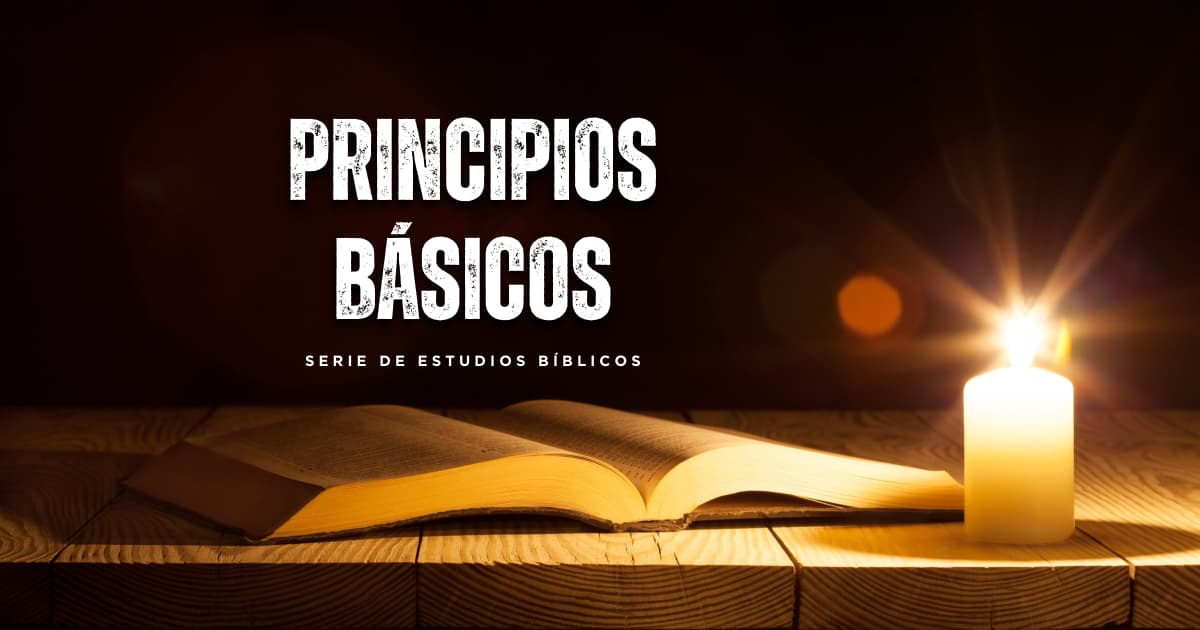
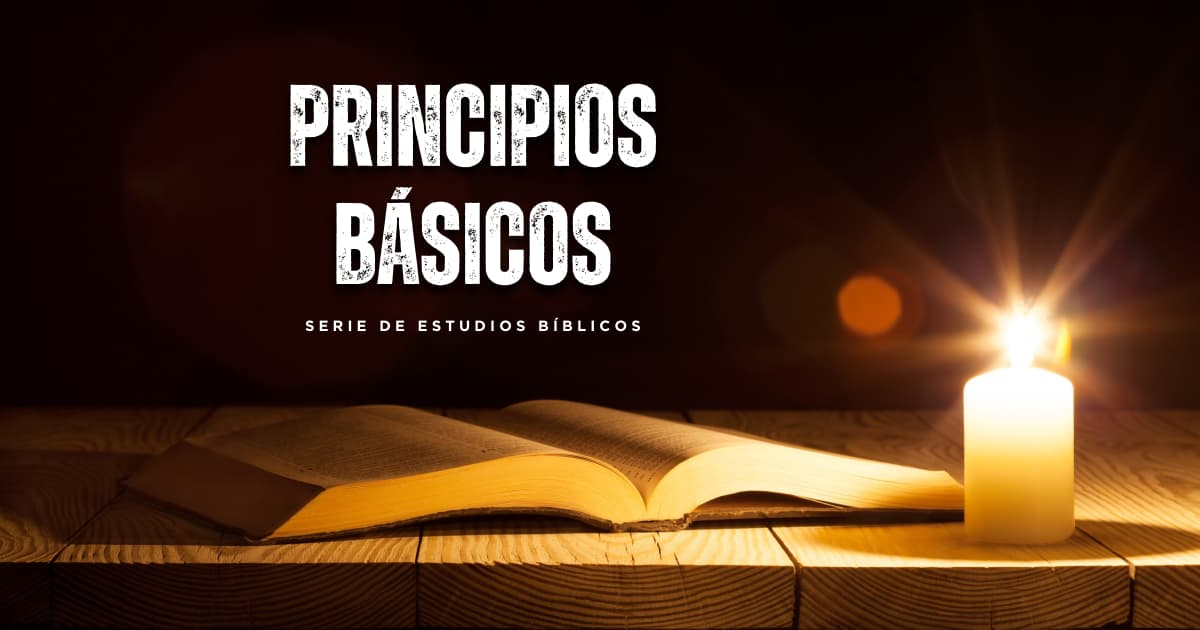
Revise open graph image

Changed region(s): [[0.2158, 0.1206, 0.555, 0.6032]]

diff --git a/fp/es/sw.js b/fp/es/sw.js
@@ -1,2 +1,2 @@
-if(!self.define){let s,e={};const i=(i,r)=>(i=new URL(i+".js",r).href,e[i]||new Promise(e=>{if("document"in self){const s=document.createElement("script");s.src=i,s.onload=e,document.head.appendChild(s)}else s=i,importScripts(i),e()}).then(()=>{let s=e[i];if(!s)throw new Error(`Module ${i} didn’t register its module`);return s}));self.define=(r,a)=>{const c=s||("document"in self?document.currentScript.src:"")||location.href;if(e[c])return;let n={};const o=s=>i(s,c),d={module:{uri:c},exports:n,require:o};e[c]=Promise.all(r.map(s=>d[s]||o(s))).then(s=>(a(...s),n))}}define(["./workbox-de7bb800"],function(s){"use strict";self.addEventListener("message",s=>{s.data&&"SKIP_WAITING"===s.data.type&&self.skipWaiting()}),s.precacheAndRoute([{url:"_assets/css/cover.css",revision:"6fa777c358d7b6ce5adc1e5236dcb4ef"},{url:"_assets/css/global.css",revision:"9f9bafbdf2757b5e051275ac0183f127"},{url:"_assets/img/cover/cover.avif",revision:"a85886271cc917772809dec3e9a3118a"},{url:"_assets/img/icons/chevron-right.svg",revision:"48cbacdcf0f776bc4706d79ea206ce8f"},{url:"_assets/img/icons/launch/logo-usd21-120.png",revision:"a1d88af61183cf3df36c18df3bd18f07"},{url:"_assets/img/icons/launch/logo-usd21-152.png",revision:"857807e589da9673db28ddc9c5e46086"},{url:"_assets/img/icons/launch/logo-usd21-167.png",revision:"617ece7bc41b78d73306582e70ef734f"},{url:"_assets/img/icons/launch/logo-usd21-180.png",revision:"2e4bc4c83044ddd3dc48dbc439f2c829"},{url:"_assets/img/icons/launch/logo-usd21-192-maskable.png",revision:"40d40ac591083bc6a416f92f9374a541"},{url:"_assets/img/icons/launch/logo-usd21-192.png",revision:"16ecc5f1d52b09ca048897ee152f5f38"},{url:"_assets/img/icons/launch/logo-usd21-512-maskable.png",revision:"a6c14e88b10910c9631c1c741d0f4e25"},{url:"_assets/img/icons/launch/logo-usd21-512.png",revision:"6225109db6e3ce7e96078459172f0f63"},{url:"_assets/img/icons/pause-circle.svg",revision:"0ffd80e727c032d8ce6b061a13cfa0b1"},{url:"_assets/img/icons/play-circle.svg",revision:"ade4d25a243d387a52c166d2f9655623"},{url:"_assets/img/icons/stop-circle.svg",revision:"5aff093e5c687e5a5356fdf9cbcdf3d0"},{url:"_assets/img/opengraph.jpg",revision:"7ac178550a483ec86c5ae4fb8bd36e98"},{url:"_assets/js/bootstrap-5.3.7-dist/css/bootstrap.min.css",revision:"d678fe326e68721e46a8ede94d868939"},{url:"_assets/js/bootstrap-5.3.7-dist/js/bootstrap.bundle.min.js",revision:"c6bf4929e79cc4a5e1f7783a9e359925"},{url:"_assets/js/global.js",revision:"f1f48e5a16d5a6298d54ce74fcc4b2ce"},{url:"_assets/js/popper.min.js",revision:"f391f7a8f97c5bca544d5e9374f4f44e"},{url:"_assets/js/pwa-install.js",revision:"f226a3159f0bc9f84bcb07d49cc842ac"},{url:"_assets/scriptures/es/1-corinthians-1-10-13.json",revision:"4c5feb2a111cc26b1993371d8347a5b4"},{url:"_assets/scriptures/es/1-corinthians-12-12-13.json",revision:"c6bb7aca246ec5fa68c5ce6beb2eacdb"},{url:"_assets/scriptures/es/1-corinthians-12-14-27.json",revision:"fd3e822c92e3b8f198d28c7cf1f31138"},{url:"_assets/scriptures/es/1-corinthians-16-1-2.json",revision:"397182b0b7861b8d73c1be7721b86413"},{url:"_assets/scriptures/es/1-corinthians-3-11.json",revision:"852bb62cc16133f1c3568ebdc161cb85"},{url:"_assets/scriptures/es/1-corinthians-4-15-17.json",revision:"a11feed980f451bc9bece97c0aab85c6"},{url:"_assets/scriptures/es/1-corinthians-6-7-10.json",revision:"b6dcb583afa5c1bc7310c57e3ba126cf"},{url:"_assets/scriptures/es/1-corinthians-7-39.json",revision:"864222161d7e1b8f9eb916070dd7eb0b"},{url:"_assets/scriptures/es/1-peter-1-19-21.json",revision:"39a365b253e1a299a7ae62d9c6c811e6"},{url:"_assets/scriptures/es/1-peter-2-21-24.json",revision:"12a9d21c3120cfed608d16c3a641aae9"},{url:"_assets/scriptures/es/1-peter-2-9-10.json",revision:"7340232616df80757878f97de219ddc0"},{url:"_assets/scriptures/es/1-peter-3-18-22.json",revision:"bd88bec2def04863e4be339670b8c9ae"},{url:"_assets/scriptures/es/1-timothy-3-15.json",revision:"8aab65662510be1cbfda3072d0c98fcd"},{url:"_assets/scriptures/es/1-timothy-3-16.json",revision:"d1464bc9419d2b7bea2000f5784a9fe5"},{url:"_assets/scriptures/es/1-timothy-4-16.json",revision:"d5b7ee90ad897f48881b8f2a80df632a"},{url:"_assets/scriptures/es/2-corinthians-5-21.json",revision:"a72afe99894cbf2a2616e01b58ac9cba"},{url:"_assets/scriptures/es/2-corinthians-6-14-18.json",revision:"358d191c0aae55379fad09d6932d45b5"},{url:"_assets/scriptures/es/2-corinthians-7-8-11.json",revision:"7fe2b0859a1d788112e790348494dfad"},{url:"_assets/scriptures/es/2-corinthians-9-6-8.json",revision:"ce8b9f1af95a5811424694358391bfec"},{url:"_assets/scriptures/es/2-timothy-3-1-5.json",revision:"d822494b67e44fe465e1f66e30963a23"},{url:"_assets/scriptures/es/2-timothy-3-14-17.json",revision:"e142cf83648072800b817cd5eaa7c07e"},{url:"_assets/scriptures/es/2-timothy-3-16-17.json",revision:"82b81499535b9bec2bd338be01924a36"},{url:"_assets/scriptures/es/2-timothy-3-16.json",revision:"9d80543f8c6d7bfc30b86e9b7cf65a0c"},{url:"_assets/scriptures/es/acts-1-1-26.json",revision:"89d8ba1582b01ed22a9ab33a6be81824"},{url:"_assets/scriptures/es/acts-11-25-26.json",revision:"9d5dc64725210eb36351ff9313c3a125"},{url:"_assets/scriptures/es/acts-13-47.json",revision:"e2d6198120c3dba898e531e1ab9f1c65"},{url:"_assets/scriptures/es/acts-17-10-11.json",revision:"dc760256b9124b1f1b0b17e7a5dfa2e7"},{url:"_assets/scriptures/es/acts-17-24-28.json",revision:"33e54c0941e0fdcd71557e9ab91aa6b6"},{url:"_assets/scriptures/es/acts-2-1-17.json",revision:"cae9c568814a443a266774e5941b8d40"},{url:"_assets/scriptures/es/acts-2-1-4.json",revision:"b71196248e0da6bc99cfbc259f6316a7"},{url:"_assets/scriptures/es/acts-2-22-24.json",revision:"e0a6365d4c61859412cb03f6133ce126"},{url:"_assets/scriptures/es/acts-2-22.json",revision:"47653971d327d5afb2559c8a5e49d640"},{url:"_assets/scriptures/es/acts-2-23.json",revision:"d61fe8005fde321550ca37e84d4db32e"},{url:"_assets/scriptures/es/acts-2-24.json",revision:"97b75bb6e6667a672f3c6305109c14cd"},{url:"_assets/scriptures/es/acts-2-36-41.json",revision:"5d7338cdd7361a757f49494be07371d6"},{url:"_assets/scriptures/es/acts-2-37.json",revision:"570bdee860f41e7633203e543b9510ce"},{url:"_assets/scriptures/es/acts-2-38-42.json",revision:"169beebfd16177d2b3fb143460587916"},{url:"_assets/scriptures/es/acts-2-38.json",revision:"2f065a4695cacd965e6ec249b31825f4"},{url:"_assets/scriptures/es/acts-2-42-47.json",revision:"cc2c7e7a10f7b50f910b40ae3d68419c"},{url:"_assets/scriptures/es/acts-26-20.json",revision:"ab03b44d2dd9bcca04cd5fd1f1f0aea6"},{url:"_assets/scriptures/es/acts-26-28.json",revision:"80f45083d140392c8e0792351be4585a"},{url:"_assets/scriptures/es/acts-8-26-39.json",revision:"aa1456c3ad9c44b7203dae9d1ce251bf"},{url:"_assets/scriptures/es/colossians-1-15-18.json",revision:"235c1b2b069cfe40414e6b5790b42669"},{url:"_assets/scriptures/es/colossians-2-11-12.json",revision:"26e7eec8255da454922ad6bbb5a6103a"},{url:"_assets/scriptures/es/colossians-3-5-10.json",revision:"a1f88f89089753634109c3021370763c"},{url:"_assets/scriptures/es/daniel-2-31-45.json",revision:"a9d407d011f72ffac83bc3a71e8746ce"},{url:"_assets/scriptures/es/ephesians-2-19-22.json",revision:"758be8d2f3e5434abd6a668ea51cfd6d"},{url:"_assets/scriptures/es/ephesians-4-4-6.json",revision:"15d93b761a7323ab0096a4024b08617e"},{url:"_assets/scriptures/es/ephesians-5-1-7.json",revision:"f2c402fdc48bff541ade24f613938e83"},{url:"_assets/scriptures/es/ezekiel-18-20.json",revision:"98c65d351629f7f50930db226ca45332"},{url:"_assets/scriptures/es/ezekiel-28-15.json",revision:"0b45b94c24612ded719295f58f4088ca"},{url:"_assets/scriptures/es/galatians-5-19-21.json",revision:"b756f612d50477270a1c8540ae60b895"},{url:"_assets/scriptures/es/genesis-2-19.json",revision:"b233b18a19f3dab9f39e786d88ab5c75"},{url:"_assets/scriptures/es/hebrews-10-23-25.json",revision:"7044d0e40511f7c313815c1dfc78219b"},{url:"_assets/scriptures/es/hebrews-4-12-13.json",revision:"7ced8b9c8497bf3192d49866cf00f1fd"},{url:"_assets/scriptures/es/isaiah-2-1-4.json",revision:"b8fb47e5a6b3001058b75243f7943062"},{url:"_assets/scriptures/es/isaiah-2-2.json",revision:"3ff02aad2f56d5f8175eead1bd2ea42b"},{url:"_assets/scriptures/es/isaiah-2-3.json",revision:"6bce373cad252974f1e3146f37625fab"},{url:"_assets/scriptures/es/isaiah-40-22.json",revision:"7a6d15e90ca3bb28bc7d808869ca0b46"},{url:"_assets/scriptures/es/isaiah-53-4-6.json",revision:"58b9e47b65bfb5922ae925c60e199fbe"},{url:"_assets/scriptures/es/isaiah-53-9.json",revision:"aa52511f129245247da3d6caca743e16"},{url:"_assets/scriptures/es/isaiah-55-10-11.json",revision:"78b34a5137c8a29b8a64bad9f6e718da"},{url:"_assets/scriptures/es/isaiah-59-1-2.json",revision:"ed223cd906ceacfc8cb659cec6aea388"},{url:"_assets/scriptures/es/james-1-22-25.json",revision:"e3171179ed37803f614aa7bf3974f359"},{url:"_assets/scriptures/es/james-4-17.json",revision:"dce1b7d9189f0c34f7ef1f212af04e47"},{url:"_assets/scriptures/es/james-5-16.json",revision:"68fda091719c95cf4640bcc352e97577"},{url:"_assets/scriptures/es/jeremiah-29-11-13.json",revision:"ce3189306446b7e9a038fb667c55e985"},{url:"_assets/scriptures/es/job-26-7.json",revision:"d485b66cc6ce175c03b91d11d40007ce"},{url:"_assets/scriptures/es/john-12-48.json",revision:"3f050f79d30c5d3a5170e0f31d877e8c"},{url:"_assets/scriptures/es/john-13-34-35.json",revision:"d115537b183d1b3490b800a4f82cc6f6"},{url:"_assets/scriptures/es/john-2-18-21.json",revision:"9fa795d8a1d5b895862228b77a93a99b"},{url:"_assets/scriptures/es/john-3-1-7.json",revision:"8a63ca3ff107bb371f8097bc240d50b7"},{url:"_assets/scriptures/es/john-3-5.json",revision:"a74960abf70705f225e546246f9a4b72"},{url:"_assets/scriptures/es/john-4-23-24.json",revision:"4b66cd7933eaaadd7a39492159c3521e"},{url:"_assets/scriptures/es/john-8-31-32.json",revision:"c6667be33edee37f890b6560d19d863e"},{url:"_assets/scriptures/es/luke-11-1-4.json",revision:"e257d8675a6f3f849769b29571f0a59c"},{url:"_assets/scriptures/es/luke-13-1-5.json",revision:"6f9eaeb684cccd6a81a57a7898060195"},{url:"_assets/scriptures/es/luke-14-25-33.json",revision:"40b0884ea4d92c2210a05a259447602c"},{url:"_assets/scriptures/es/luke-14-28-30.json",revision:"b65cf76b28cca38e32b0e230585bfd6b"},{url:"_assets/scriptures/es/luke-14-31-33.json",revision:"fed9884ac00b9dbe0b0bd2a8eba909ec"},{url:"_assets/scriptures/es/luke-23-50-51.json",revision:"3c3c5d3cd3eb364ca1f59338bff92712"},{url:"_assets/scriptures/es/luke-24-44-49.json",revision:"07af1aa9e3d1571a4fa8fee5686cb7c5"},{url:"_assets/scriptures/es/luke-9-23-26.json",revision:"9737c991c117d5726bcf4e7a2b792fb5"},{url:"_assets/scriptures/es/mark-1-14-18.json",revision:"530f5d0225633d02576a93f5151fc7f1"},{url:"_assets/scriptures/es/mark-15-25.json",revision:"8dc49fa4b67acd94abc6d12c1bf23dec"},{url:"_assets/scriptures/es/mark-7-1-13.json",revision:"ecf3b94102b17654ed9abfb301c67c49"},{url:"_assets/scriptures/es/mark-7-20-22.json",revision:"74a395b6afa626895d0175b4304c3ae6"},{url:"_assets/scriptures/es/mark-9-1.json",revision:"400b8142668f3f6d8d02805fecb53fb1"},{url:"_assets/scriptures/es/matthew-15-6-9.json",revision:"67eff5d65f4bbbfbda1fb6da34b42164"},{url:"_assets/scriptures/es/matthew-16-13-19.json",revision:"b774a6fb84ba704a9231df31cacc1940"},{url:"_assets/scriptures/es/matthew-16-18-19.json",revision:"77f118102fdd75c677465374feebd98d"},{url:"_assets/scriptures/es/matthew-22-34-40.json",revision:"a46d88fa7a24c5a9f29ac7524a3aba08"},{url:"_assets/scriptures/es/matthew-26-31-35.json",revision:"0483992e2c4c70c574f925cbc6a6a158"},{url:"_assets/scriptures/es/matthew-26-36-39.json",revision:"070e0ee082c0093dbe98100726fb022c"},{url:"_assets/scriptures/es/matthew-26-36-46.json",revision:"2deccf92c419361b25c37dd9fb9ab100"},{url:"_assets/scriptures/es/matthew-26-47-56.json",revision:"18622b898ffe8082a2d31a6212fee90e"},{url:"_assets/scriptures/es/matthew-26-55.json",revision:"8262cc4b25a2814933c8a47e04db5dad"},{url:"_assets/scriptures/es/matthew-26-57-68.json",revision:"aa696714b7132fcc4729307357480fac"},{url:"_assets/scriptures/es/matthew-26-69-75.json",revision:"7817504336d07e4edf0f531e12fc375a"},{url:"_assets/scriptures/es/matthew-27-1-10.json",revision:"2b7c54eb25a9f3d75186e9de38b6dd46"},{url:"_assets/scriptures/es/matthew-27-11-26.json",revision:"6f0c51f8a46719f486df56a2d0e8bebe"},{url:"_assets/scriptures/es/matthew-27-27-44.json",revision:"dba966df23c9c149becc46336f0db0dc"},{url:"_assets/scriptures/es/matthew-27-45-56.json",revision:"8c8d4965e18fa529ab7140ce7df50b0e"},{url:"_assets/scriptures/es/matthew-27-57-61.json",revision:"40a87dcb0422d9eae60e6dbd34f3fadc"},{url:"_assets/scriptures/es/matthew-27-62-66.json",revision:"b240188f9a4b191e31a3d79f2a9c9ece"},{url:"_assets/scriptures/es/matthew-28-1-10.json",revision:"65c795966a6fc04e7940f055282087ac"},{url:"_assets/scriptures/es/matthew-28-18-20.json",revision:"f0f34f45e41e26e2eedf177af5612d76"},{url:"_assets/scriptures/es/matthew-3-1-2.json",revision:"e0e3d28c83f2e44819576a134eaa55a1"},{url:"_assets/scriptures/es/matthew-4-17.json",revision:"37ac7ca1fe2f6f1f1bf05abf9c18bcc5"},{url:"_assets/scriptures/es/matthew-5-27-30.json",revision:"4b4ce61318482198b42735979c933c1c"},{url:"_assets/scriptures/es/matthew-6-25-34.json",revision:"f0ef8b3dc259c19aa62614f8ee39f747"},{url:"_assets/scriptures/es/matthew-6-33.json",revision:"2c45e29cdf058935221d95bb1e064043"},{url:"_assets/scriptures/es/matthew-7-7-8.json",revision:"8a95ee480f2a57e1cd31022331bb84f2"},{url:"_assets/scriptures/es/numbers-27-12-18.json",revision:"abff437a40efffd53ae93615690bf8aa"},{url:"_assets/scriptures/es/proverbs-13-5.json",revision:"e59b4678c779dcaa90d742de54827797"},{url:"_assets/scriptures/es/psalm-119-1-2.json",revision:"6686d61c73eff9e481970461c24d5a40"},{url:"_assets/scriptures/es/revelation-3-20.json",revision:"e2e1bb981ea17fcd30637524ad2acca3"},{url:"_assets/scriptures/es/romans-12-4-5.json",revision:"19309139555768bda7b5b5d52196666a"},{url:"_assets/scriptures/es/romans-3-23.json",revision:"ac877257071ca29a8b066e49f9acaee2"},{url:"_assets/scriptures/es/romans-3-25.json",revision:"c25e7cf1db31109e8861b0690179de93"},{url:"_assets/scriptures/es/romans-6-1-8.json",revision:"d3c1cca8eeb3d8bf47fbfacb5154423c"},{url:"_assets/scriptures/es/romans-6-23.json",revision:"0c949b4809fbd451be232d7823cb99c0"},{url:"_assets/scriptures/es/romans-6-3-4.json",revision:"5e5adba5458d888cc88ee57e2f360e06"},{url:"about-fp/i18n/es-decorations.json",revision:"8ff576242bb99a5fe8cf469b2014aacd"},{url:"about-fp/i18n/es.json",revision:"325933c8eb46c83ac004cb955c50894f"},{url:"about-fp/img/masthead-about-fp.avif",revision:"5ac49a318501d76c7cd7ab0bc2358497"},{url:"about-fp/index.html",revision:"32d17fe7b47a2c33c3dd5c1d45242c06"},{url:"about-fp/logic.js",revision:"2d821031b7e21691336e846dbffabc6d"},{url:"about-fp/style.css",revision:"61c441989568c1e7f8e983b3430a0a8f"},{url:"about-us/i18n/es-decorations.json",revision:"a24f7c1f1868a07660104dd523dd7e95"},{url:"about-us/i18n/es.json",revision:"9b07908f7c27274c33d2e595cc8e8654"},{url:"about-us/img/masthead-about-fp.avif",revision:"5ac49a318501d76c7cd7ab0bc2358497"},{url:"about-us/index.html",revision:"ed1ef76e3225fe1613fbcdd90b8be5a9"},{url:"about-us/logic.js",revision:"2d821031b7e21691336e846dbffabc6d"},{url:"about-us/style.css",revision:"61c441989568c1e7f8e983b3430a0a8f"},{url:"church/i18n/es-decorations.json",revision:"9cca6d3764829f37770262ad56c84466"},{url:"church/i18n/es.json",revision:"df41ca4efabdc5ad49cbebc9277035da"},{url:"church/img/church-history/church-history.avif",revision:"0e9fead3f8b985ebf9762beaa1911a05"},{url:"church/img/family-triangle/family-triangle.svg",revision:"2e189703767ea06efef0999f10ec1eeb"},{url:"church/img/head-body-diagram/head-body-diagram.svg",revision:"575b7a41400b6e4875f7b0566bd665bd"},{url:"church/img/masthead-church.avif",revision:"5f561b19ce41cf8edbea8e94a49cf9d1"},{url:"church/index.html",revision:"99209c5a2053966dd2cd0591c52efa1b"},{url:"church/logic.js",revision:"2d821031b7e21691336e846dbffabc6d"},{url:"church/style.css",revision:"d6ddc8ddb43f2bc47eee4f5b7f78b59c"},{url:"cross/i18n/es-decorations.json",revision:"2f71a106a44901e0e32eb3ce6a6fef43"},{url:"cross/i18n/es.json",revision:"25f2e252698a93e69c8ad2ce18109815"},{url:"cross/img/masthead-cross.avif",revision:"a7ce22ba73a14bd62f3b247de285b395"},{url:"cross/index.html",revision:"31c3d508deeefa97295bde3aac0a3003"},{url:"cross/logic.js",revision:"2d821031b7e21691336e846dbffabc6d"},{url:"cross/style.css",revision:"f99002dd71b04b99460e070ff663e808"},{url:"discipleship/i18n/es-decorations.json",revision:"0a0080dcfe323fd66c93c8f656be167f"},{url:"discipleship/i18n/es.json",revision:"f021cd9a158fa3648084add92396c5c9"},{url:"discipleship/img/masthead-discipleship.avif",revision:"00cea4cfd37c9279c7b289c5d2e72411"},{url:"discipleship/index.html",revision:"572a3872190e423d9c8f02be0e238802"},{url:"discipleship/logic.js",revision:"7e464ab307cfe2dc8dda34db198040ba"},{url:"discipleship/style.css",revision:"121700d599e606558f3543e3c2b526a9"},{url:"i18n-global/es.json",revision:"9ff42a50e3ab27d728d0cfdf0f452f3d"},{url:"index.html",revision:"c0cdb5ced2195c8981a14b7ad6251347"},{url:"kingdom/i18n/es-decorations.json",revision:"ab9ff628ede0f426c53273d1eb6f9aec"},{url:"kingdom/i18n/es.json",revision:"796b1eda3bd2c9536a3fdbf7d9777052"},{url:"kingdom/img/kingdom-church-comparison/kingdom-church-comparison.avif",revision:"63abed704227c991aaae72804bb97739"},{url:"kingdom/img/masthead-kingdom.avif",revision:"349c27764cb33a4f3abe1f57fb55ec91"},{url:"kingdom/img/mountain-bg-transparent.webp",revision:"1f0bd85ae3f72483caeb47ac190c7aa5"},{url:"kingdom/img/statue/statue.avif",revision:"e849b55b8569dd9a553e8ce707d73ae8"},{url:"kingdom/img/timeline/timeline.svg",revision:"28b7bf715713c6893d935b29fd6bb823"},{url:"kingdom/index.html",revision:"59cd307bdb6902726958a25216f4c66b"},{url:"kingdom/logic.js",revision:"652baa6f9b01711869fdc20ebaa99d46"},{url:"kingdom/style.css",revision:"266307b35d07e13c4946fdc032e0fc8a"},{url:"light-darkness/i18n/es-decorations.json",revision:"1d1966115dad552309bade2ee37550b3"},{url:"light-darkness/i18n/es.json",revision:"a2ec5a5073ec979f52a0162868a7e537"},{url:"light-darkness/img/buried-in-baptism/buried-in-baptism.avif",revision:"985c0c914c2ce6c15b0c9098e69f9569"},{url:"light-darkness/img/masthead-lightdarkness.avif",revision:"89a2a6596f542b59adf00991ec1ae9f1"},{url:"light-darkness/img/timeline-dots.svg",revision:"ffb69453df9faadeadbf785f18a23dc6"},{url:"light-darkness/index.html",revision:"c7e14eed2ed87ca39d9f4d47aa292d9d"},{url:"light-darkness/logic.js",revision:"2d821031b7e21691336e846dbffabc6d"},{url:"light-darkness/style.css",revision:"5e78e03fdcc2b9864812ee533fea725c"},{url:"manifest.json",revision:"32fbd9275e0cf5d55fb41276d02fa91d"},{url:"medical-account/i18n/es-decorations.json",revision:"5e3d913dc4f6599ce73e29bc70d7f411"},{url:"medical-account/i18n/es.json",revision:"913e9420338e0fc9f27a27b2da4e88d4"},{url:"medical-account/index.html",revision:"53778d29dce6751823ccbe05fe8fd9ee"},{url:"medical-account/logic.js",revision:"5f757b9bf38b40dcf48e45ff6c6f1cb9"},{url:"medical-account/style.css",revision:"679dc52a8cf14def7e9a575c7e4e323a"},{url:"package-lock.json",revision:"4677bfb887f98b7e310bfce52febbea6"},{url:"package.json",revision:"f330d2e739f05bb94da2e81de920f420"},{url:"seeking-god/i18n/es-decorations.json",revision:"80421439337d1de5e4d4217560977e01"},{url:"seeking-god/i18n/es.json",revision:"cfe99b0b1691cfe545a96024ef803a7f"},{url:"seeking-god/img/masthead-seeking-god.avif",revision:"6e53d75213f3f4ddbd8ac169083a2200"},{url:"seeking-god/index.html",revision:"19273f87401b169463cadd89324eed32"},{url:"seeking-god/logic.js",revision:"2d821031b7e21691336e846dbffabc6d"},{url:"seeking-god/style.css",revision:"582fd139a283f348a47b36b5e0de4e37"},{url:"sin-definitions/i18n/es-decorations.json",revision:"09b2f513d8d5c2a988644d2856ddfaa4"},{url:"sin-definitions/i18n/es.json",revision:"c12adbbbe7014850d3af950ac71458cf"},{url:"sin-definitions/index.html",revision:"174144d00f5e24f2b66b86654ac33b0d"},{url:"sin-definitions/logic.js",revision:"2d821031b7e21691336e846dbffabc6d"},{url:"sin-definitions/style.css",revision:"2be35f4d5a197ba4d1887db9cf0d39c0"},{url:"sin-repentance/i18n/es-decorations.json",revision:"bb40cbe2059b003439f75889308c6616"},{url:"sin-repentance/i18n/es.json",revision:"c5b905ed5a2ee418cce580f14eb0a270"},{url:"sin-repentance/img/darkness-light/darkness-light.svg",revision:"61e96d29e3330a40526124bec6611c3c"},{url:"sin-repentance/img/masthead-sin-repentance.avif",revision:"d437f01be95ec7bd47213eb0a7be7136"},{url:"sin-repentance/img/sin-piles/sin-piles.svg",revision:"f626fdc72b03a9132d6b47f726d31f4a"},{url:"sin-repentance/img/wages-gift/wages-gift.svg",revision:"ae50e529844e75855585af31eaef2ee3"},{url:"sin-repentance/index.html",revision:"bca57a9ba41bf8bca3afa51588b42f8b"},{url:"sin-repentance/logic.js",revision:"2d821031b7e21691336e846dbffabc6d"},{url:"sin-repentance/style.css",revision:"19442861cc1c82393d62a15110947d70"},{url:"toc/i18n/es-decorations.json",revision:"80421439337d1de5e4d4217560977e01"},{url:"toc/i18n/es.json",revision:"d9ddb8e59f8ceb4b61cf30447587f323"},{url:"toc/img/background.jpg",revision:"e4388082074a056208cb28aae87bc71a"},{url:"toc/index.html",revision:"f89221230cdb8ab47a2bd403e96d77da"},{url:"toc/logic.js",revision:"2d821031b7e21691336e846dbffabc6d"},{url:"toc/style.css",revision:"0b43aabcbd11029939ebc719e2f1153d"},{url:"word/i18n/es-decorations.json",revision:"19a04aa2794422d197edf6f084400887"},{url:"word/i18n/es.json",revision:"b6434b466b8944c1954eb7f186ee08c0"},{url:"word/img/masthead-word.avif",revision:"7600c7dd0aff5d474c7e78eedd4c4d1a"},{url:"word/index.html",revision:"3166c03532e008ac080d2f41d7bec7b7"},{url:"word/logic.js",revision:"2d821031b7e21691336e846dbffabc6d"},{url:"word/style.css",revision:"d909cad1558b004b398ec45030a81897"}],{ignoreURLParametersMatching:[/^utm_/,/^fbclid$/]})});
+if(!self.define){let s,e={};const i=(i,r)=>(i=new URL(i+".js",r).href,e[i]||new Promise(e=>{if("document"in self){const s=document.createElement("script");s.src=i,s.onload=e,document.head.appendChild(s)}else s=i,importScripts(i),e()}).then(()=>{let s=e[i];if(!s)throw new Error(`Module ${i} didn’t register its module`);return s}));self.define=(r,a)=>{const c=s||("document"in self?document.currentScript.src:"")||location.href;if(e[c])return;let n={};const o=s=>i(s,c),d={module:{uri:c},exports:n,require:o};e[c]=Promise.all(r.map(s=>d[s]||o(s))).then(s=>(a(...s),n))}}define(["./workbox-de7bb800"],function(s){"use strict";self.addEventListener("message",s=>{s.data&&"SKIP_WAITING"===s.data.type&&self.skipWaiting()}),s.precacheAndRoute([{url:"_assets/css/cover.css",revision:"6fa777c358d7b6ce5adc1e5236dcb4ef"},{url:"_assets/css/global.css",revision:"9f9bafbdf2757b5e051275ac0183f127"},{url:"_assets/img/cover/cover.avif",revision:"a85886271cc917772809dec3e9a3118a"},{url:"_assets/img/icons/chevron-right.svg",revision:"48cbacdcf0f776bc4706d79ea206ce8f"},{url:"_assets/img/icons/launch/logo-usd21-120.png",revision:"a1d88af61183cf3df36c18df3bd18f07"},{url:"_assets/img/icons/launch/logo-usd21-152.png",revision:"857807e589da9673db28ddc9c5e46086"},{url:"_assets/img/icons/launch/logo-usd21-167.png",revision:"617ece7bc41b78d73306582e70ef734f"},{url:"_assets/img/icons/launch/logo-usd21-180.png",revision:"2e4bc4c83044ddd3dc48dbc439f2c829"},{url:"_assets/img/icons/launch/logo-usd21-192-maskable.png",revision:"40d40ac591083bc6a416f92f9374a541"},{url:"_assets/img/icons/launch/logo-usd21-192.png",revision:"16ecc5f1d52b09ca048897ee152f5f38"},{url:"_assets/img/icons/launch/logo-usd21-512-maskable.png",revision:"a6c14e88b10910c9631c1c741d0f4e25"},{url:"_assets/img/icons/launch/logo-usd21-512.png",revision:"6225109db6e3ce7e96078459172f0f63"},{url:"_assets/img/icons/pause-circle.svg",revision:"0ffd80e727c032d8ce6b061a13cfa0b1"},{url:"_assets/img/icons/play-circle.svg",revision:"ade4d25a243d387a52c166d2f9655623"},{url:"_assets/img/icons/stop-circle.svg",revision:"5aff093e5c687e5a5356fdf9cbcdf3d0"},{url:"_assets/img/opengraph.jpg",revision:"f6eb6c5fc1ae09580c359ce2539f949f"},{url:"_assets/js/bootstrap-5.3.7-dist/css/bootstrap.min.css",revision:"d678fe326e68721e46a8ede94d868939"},{url:"_assets/js/bootstrap-5.3.7-dist/js/bootstrap.bundle.min.js",revision:"c6bf4929e79cc4a5e1f7783a9e359925"},{url:"_assets/js/global.js",revision:"f1f48e5a16d5a6298d54ce74fcc4b2ce"},{url:"_assets/js/popper.min.js",revision:"f391f7a8f97c5bca544d5e9374f4f44e"},{url:"_assets/js/pwa-install.js",revision:"f226a3159f0bc9f84bcb07d49cc842ac"},{url:"_assets/scriptures/es/1-corinthians-1-10-13.json",revision:"4c5feb2a111cc26b1993371d8347a5b4"},{url:"_assets/scriptures/es/1-corinthians-12-12-13.json",revision:"c6bb7aca246ec5fa68c5ce6beb2eacdb"},{url:"_assets/scriptures/es/1-corinthians-12-14-27.json",revision:"fd3e822c92e3b8f198d28c7cf1f31138"},{url:"_assets/scriptures/es/1-corinthians-16-1-2.json",revision:"397182b0b7861b8d73c1be7721b86413"},{url:"_assets/scriptures/es/1-corinthians-3-11.json",revision:"852bb62cc16133f1c3568ebdc161cb85"},{url:"_assets/scriptures/es/1-corinthians-4-15-17.json",revision:"a11feed980f451bc9bece97c0aab85c6"},{url:"_assets/scriptures/es/1-corinthians-6-7-10.json",revision:"b6dcb583afa5c1bc7310c57e3ba126cf"},{url:"_assets/scriptures/es/1-corinthians-7-39.json",revision:"864222161d7e1b8f9eb916070dd7eb0b"},{url:"_assets/scriptures/es/1-peter-1-19-21.json",revision:"39a365b253e1a299a7ae62d9c6c811e6"},{url:"_assets/scriptures/es/1-peter-2-21-24.json",revision:"12a9d21c3120cfed608d16c3a641aae9"},{url:"_assets/scriptures/es/1-peter-2-9-10.json",revision:"7340232616df80757878f97de219ddc0"},{url:"_assets/scriptures/es/1-peter-3-18-22.json",revision:"bd88bec2def04863e4be339670b8c9ae"},{url:"_assets/scriptures/es/1-timothy-3-15.json",revision:"8aab65662510be1cbfda3072d0c98fcd"},{url:"_assets/scriptures/es/1-timothy-3-16.json",revision:"d1464bc9419d2b7bea2000f5784a9fe5"},{url:"_assets/scriptures/es/1-timothy-4-16.json",revision:"d5b7ee90ad897f48881b8f2a80df632a"},{url:"_assets/scriptures/es/2-corinthians-5-21.json",revision:"a72afe99894cbf2a2616e01b58ac9cba"},{url:"_assets/scriptures/es/2-corinthians-6-14-18.json",revision:"358d191c0aae55379fad09d6932d45b5"},{url:"_assets/scriptures/es/2-corinthians-7-8-11.json",revision:"7fe2b0859a1d788112e790348494dfad"},{url:"_assets/scriptures/es/2-corinthians-9-6-8.json",revision:"ce8b9f1af95a5811424694358391bfec"},{url:"_assets/scriptures/es/2-timothy-3-1-5.json",revision:"d822494b67e44fe465e1f66e30963a23"},{url:"_assets/scriptures/es/2-timothy-3-14-17.json",revision:"e142cf83648072800b817cd5eaa7c07e"},{url:"_assets/scriptures/es/2-timothy-3-16-17.json",revision:"82b81499535b9bec2bd338be01924a36"},{url:"_assets/scriptures/es/2-timothy-3-16.json",revision:"9d80543f8c6d7bfc30b86e9b7cf65a0c"},{url:"_assets/scriptures/es/acts-1-1-26.json",revision:"89d8ba1582b01ed22a9ab33a6be81824"},{url:"_assets/scriptures/es/acts-11-25-26.json",revision:"9d5dc64725210eb36351ff9313c3a125"},{url:"_assets/scriptures/es/acts-13-47.json",revision:"e2d6198120c3dba898e531e1ab9f1c65"},{url:"_assets/scriptures/es/acts-17-10-11.json",revision:"dc760256b9124b1f1b0b17e7a5dfa2e7"},{url:"_assets/scriptures/es/acts-17-24-28.json",revision:"33e54c0941e0fdcd71557e9ab91aa6b6"},{url:"_assets/scriptures/es/acts-2-1-17.json",revision:"cae9c568814a443a266774e5941b8d40"},{url:"_assets/scriptures/es/acts-2-1-4.json",revision:"b71196248e0da6bc99cfbc259f6316a7"},{url:"_assets/scriptures/es/acts-2-22-24.json",revision:"e0a6365d4c61859412cb03f6133ce126"},{url:"_assets/scriptures/es/acts-2-22.json",revision:"47653971d327d5afb2559c8a5e49d640"},{url:"_assets/scriptures/es/acts-2-23.json",revision:"d61fe8005fde321550ca37e84d4db32e"},{url:"_assets/scriptures/es/acts-2-24.json",revision:"97b75bb6e6667a672f3c6305109c14cd"},{url:"_assets/scriptures/es/acts-2-36-41.json",revision:"5d7338cdd7361a757f49494be07371d6"},{url:"_assets/scriptures/es/acts-2-37.json",revision:"570bdee860f41e7633203e543b9510ce"},{url:"_assets/scriptures/es/acts-2-38-42.json",revision:"169beebfd16177d2b3fb143460587916"},{url:"_assets/scriptures/es/acts-2-38.json",revision:"2f065a4695cacd965e6ec249b31825f4"},{url:"_assets/scriptures/es/acts-2-42-47.json",revision:"cc2c7e7a10f7b50f910b40ae3d68419c"},{url:"_assets/scriptures/es/acts-26-20.json",revision:"ab03b44d2dd9bcca04cd5fd1f1f0aea6"},{url:"_assets/scriptures/es/acts-26-28.json",revision:"80f45083d140392c8e0792351be4585a"},{url:"_assets/scriptures/es/acts-8-26-39.json",revision:"aa1456c3ad9c44b7203dae9d1ce251bf"},{url:"_assets/scriptures/es/colossians-1-15-18.json",revision:"235c1b2b069cfe40414e6b5790b42669"},{url:"_assets/scriptures/es/colossians-2-11-12.json",revision:"26e7eec8255da454922ad6bbb5a6103a"},{url:"_assets/scriptures/es/colossians-3-5-10.json",revision:"a1f88f89089753634109c3021370763c"},{url:"_assets/scriptures/es/daniel-2-31-45.json",revision:"a9d407d011f72ffac83bc3a71e8746ce"},{url:"_assets/scriptures/es/ephesians-2-19-22.json",revision:"758be8d2f3e5434abd6a668ea51cfd6d"},{url:"_assets/scriptures/es/ephesians-4-4-6.json",revision:"15d93b761a7323ab0096a4024b08617e"},{url:"_assets/scriptures/es/ephesians-5-1-7.json",revision:"f2c402fdc48bff541ade24f613938e83"},{url:"_assets/scriptures/es/ezekiel-18-20.json",revision:"98c65d351629f7f50930db226ca45332"},{url:"_assets/scriptures/es/ezekiel-28-15.json",revision:"0b45b94c24612ded719295f58f4088ca"},{url:"_assets/scriptures/es/galatians-5-19-21.json",revision:"b756f612d50477270a1c8540ae60b895"},{url:"_assets/scriptures/es/genesis-2-19.json",revision:"b233b18a19f3dab9f39e786d88ab5c75"},{url:"_assets/scriptures/es/hebrews-10-23-25.json",revision:"7044d0e40511f7c313815c1dfc78219b"},{url:"_assets/scriptures/es/hebrews-4-12-13.json",revision:"7ced8b9c8497bf3192d49866cf00f1fd"},{url:"_assets/scriptures/es/isaiah-2-1-4.json",revision:"b8fb47e5a6b3001058b75243f7943062"},{url:"_assets/scriptures/es/isaiah-2-2.json",revision:"3ff02aad2f56d5f8175eead1bd2ea42b"},{url:"_assets/scriptures/es/isaiah-2-3.json",revision:"6bce373cad252974f1e3146f37625fab"},{url:"_assets/scriptures/es/isaiah-40-22.json",revision:"7a6d15e90ca3bb28bc7d808869ca0b46"},{url:"_assets/scriptures/es/isaiah-53-4-6.json",revision:"58b9e47b65bfb5922ae925c60e199fbe"},{url:"_assets/scriptures/es/isaiah-53-9.json",revision:"aa52511f129245247da3d6caca743e16"},{url:"_assets/scriptures/es/isaiah-55-10-11.json",revision:"78b34a5137c8a29b8a64bad9f6e718da"},{url:"_assets/scriptures/es/isaiah-59-1-2.json",revision:"ed223cd906ceacfc8cb659cec6aea388"},{url:"_assets/scriptures/es/james-1-22-25.json",revision:"e3171179ed37803f614aa7bf3974f359"},{url:"_assets/scriptures/es/james-4-17.json",revision:"dce1b7d9189f0c34f7ef1f212af04e47"},{url:"_assets/scriptures/es/james-5-16.json",revision:"68fda091719c95cf4640bcc352e97577"},{url:"_assets/scriptures/es/jeremiah-29-11-13.json",revision:"ce3189306446b7e9a038fb667c55e985"},{url:"_assets/scriptures/es/job-26-7.json",revision:"d485b66cc6ce175c03b91d11d40007ce"},{url:"_assets/scriptures/es/john-12-48.json",revision:"3f050f79d30c5d3a5170e0f31d877e8c"},{url:"_assets/scriptures/es/john-13-34-35.json",revision:"d115537b183d1b3490b800a4f82cc6f6"},{url:"_assets/scriptures/es/john-2-18-21.json",revision:"9fa795d8a1d5b895862228b77a93a99b"},{url:"_assets/scriptures/es/john-3-1-7.json",revision:"8a63ca3ff107bb371f8097bc240d50b7"},{url:"_assets/scriptures/es/john-3-5.json",revision:"a74960abf70705f225e546246f9a4b72"},{url:"_assets/scriptures/es/john-4-23-24.json",revision:"4b66cd7933eaaadd7a39492159c3521e"},{url:"_assets/scriptures/es/john-8-31-32.json",revision:"c6667be33edee37f890b6560d19d863e"},{url:"_assets/scriptures/es/luke-11-1-4.json",revision:"e257d8675a6f3f849769b29571f0a59c"},{url:"_assets/scriptures/es/luke-13-1-5.json",revision:"6f9eaeb684cccd6a81a57a7898060195"},{url:"_assets/scriptures/es/luke-14-25-33.json",revision:"40b0884ea4d92c2210a05a259447602c"},{url:"_assets/scriptures/es/luke-14-28-30.json",revision:"b65cf76b28cca38e32b0e230585bfd6b"},{url:"_assets/scriptures/es/luke-14-31-33.json",revision:"fed9884ac00b9dbe0b0bd2a8eba909ec"},{url:"_assets/scriptures/es/luke-23-50-51.json",revision:"3c3c5d3cd3eb364ca1f59338bff92712"},{url:"_assets/scriptures/es/luke-24-44-49.json",revision:"07af1aa9e3d1571a4fa8fee5686cb7c5"},{url:"_assets/scriptures/es/luke-9-23-26.json",revision:"9737c991c117d5726bcf4e7a2b792fb5"},{url:"_assets/scriptures/es/mark-1-14-18.json",revision:"530f5d0225633d02576a93f5151fc7f1"},{url:"_assets/scriptures/es/mark-15-25.json",revision:"8dc49fa4b67acd94abc6d12c1bf23dec"},{url:"_assets/scriptures/es/mark-7-1-13.json",revision:"ecf3b94102b17654ed9abfb301c67c49"},{url:"_assets/scriptures/es/mark-7-20-22.json",revision:"74a395b6afa626895d0175b4304c3ae6"},{url:"_assets/scriptures/es/mark-9-1.json",revision:"400b8142668f3f6d8d02805fecb53fb1"},{url:"_assets/scriptures/es/matthew-15-6-9.json",revision:"67eff5d65f4bbbfbda1fb6da34b42164"},{url:"_assets/scriptures/es/matthew-16-13-19.json",revision:"b774a6fb84ba704a9231df31cacc1940"},{url:"_assets/scriptures/es/matthew-16-18-19.json",revision:"77f118102fdd75c677465374feebd98d"},{url:"_assets/scriptures/es/matthew-22-34-40.json",revision:"a46d88fa7a24c5a9f29ac7524a3aba08"},{url:"_assets/scriptures/es/matthew-26-31-35.json",revision:"0483992e2c4c70c574f925cbc6a6a158"},{url:"_assets/scriptures/es/matthew-26-36-39.json",revision:"070e0ee082c0093dbe98100726fb022c"},{url:"_assets/scriptures/es/matthew-26-36-46.json",revision:"2deccf92c419361b25c37dd9fb9ab100"},{url:"_assets/scriptures/es/matthew-26-47-56.json",revision:"18622b898ffe8082a2d31a6212fee90e"},{url:"_assets/scriptures/es/matthew-26-55.json",revision:"8262cc4b25a2814933c8a47e04db5dad"},{url:"_assets/scriptures/es/matthew-26-57-68.json",revision:"aa696714b7132fcc4729307357480fac"},{url:"_assets/scriptures/es/matthew-26-69-75.json",revision:"7817504336d07e4edf0f531e12fc375a"},{url:"_assets/scriptures/es/matthew-27-1-10.json",revision:"2b7c54eb25a9f3d75186e9de38b6dd46"},{url:"_assets/scriptures/es/matthew-27-11-26.json",revision:"6f0c51f8a46719f486df56a2d0e8bebe"},{url:"_assets/scriptures/es/matthew-27-27-44.json",revision:"dba966df23c9c149becc46336f0db0dc"},{url:"_assets/scriptures/es/matthew-27-45-56.json",revision:"8c8d4965e18fa529ab7140ce7df50b0e"},{url:"_assets/scriptures/es/matthew-27-57-61.json",revision:"40a87dcb0422d9eae60e6dbd34f3fadc"},{url:"_assets/scriptures/es/matthew-27-62-66.json",revision:"b240188f9a4b191e31a3d79f2a9c9ece"},{url:"_assets/scriptures/es/matthew-28-1-10.json",revision:"65c795966a6fc04e7940f055282087ac"},{url:"_assets/scriptures/es/matthew-28-18-20.json",revision:"f0f34f45e41e26e2eedf177af5612d76"},{url:"_assets/scriptures/es/matthew-3-1-2.json",revision:"e0e3d28c83f2e44819576a134eaa55a1"},{url:"_assets/scriptures/es/matthew-4-17.json",revision:"37ac7ca1fe2f6f1f1bf05abf9c18bcc5"},{url:"_assets/scriptures/es/matthew-5-27-30.json",revision:"4b4ce61318482198b42735979c933c1c"},{url:"_assets/scriptures/es/matthew-6-25-34.json",revision:"f0ef8b3dc259c19aa62614f8ee39f747"},{url:"_assets/scriptures/es/matthew-6-33.json",revision:"2c45e29cdf058935221d95bb1e064043"},{url:"_assets/scriptures/es/matthew-7-7-8.json",revision:"8a95ee480f2a57e1cd31022331bb84f2"},{url:"_assets/scriptures/es/numbers-27-12-18.json",revision:"abff437a40efffd53ae93615690bf8aa"},{url:"_assets/scriptures/es/proverbs-13-5.json",revision:"e59b4678c779dcaa90d742de54827797"},{url:"_assets/scriptures/es/psalm-119-1-2.json",revision:"6686d61c73eff9e481970461c24d5a40"},{url:"_assets/scriptures/es/revelation-3-20.json",revision:"e2e1bb981ea17fcd30637524ad2acca3"},{url:"_assets/scriptures/es/romans-12-4-5.json",revision:"19309139555768bda7b5b5d52196666a"},{url:"_assets/scriptures/es/romans-3-23.json",revision:"ac877257071ca29a8b066e49f9acaee2"},{url:"_assets/scriptures/es/romans-3-25.json",revision:"c25e7cf1db31109e8861b0690179de93"},{url:"_assets/scriptures/es/romans-6-1-8.json",revision:"d3c1cca8eeb3d8bf47fbfacb5154423c"},{url:"_assets/scriptures/es/romans-6-23.json",revision:"0c949b4809fbd451be232d7823cb99c0"},{url:"_assets/scriptures/es/romans-6-3-4.json",revision:"5e5adba5458d888cc88ee57e2f360e06"},{url:"about-fp/i18n/es-decorations.json",revision:"8ff576242bb99a5fe8cf469b2014aacd"},{url:"about-fp/i18n/es.json",revision:"325933c8eb46c83ac004cb955c50894f"},{url:"about-fp/img/masthead-about-fp.avif",revision:"5ac49a318501d76c7cd7ab0bc2358497"},{url:"about-fp/index.html",revision:"32d17fe7b47a2c33c3dd5c1d45242c06"},{url:"about-fp/logic.js",revision:"2d821031b7e21691336e846dbffabc6d"},{url:"about-fp/style.css",revision:"61c441989568c1e7f8e983b3430a0a8f"},{url:"about-us/i18n/es-decorations.json",revision:"a24f7c1f1868a07660104dd523dd7e95"},{url:"about-us/i18n/es.json",revision:"9b07908f7c27274c33d2e595cc8e8654"},{url:"about-us/img/masthead-about-fp.avif",revision:"5ac49a318501d76c7cd7ab0bc2358497"},{url:"about-us/index.html",revision:"ed1ef76e3225fe1613fbcdd90b8be5a9"},{url:"about-us/logic.js",revision:"2d821031b7e21691336e846dbffabc6d"},{url:"about-us/style.css",revision:"61c441989568c1e7f8e983b3430a0a8f"},{url:"church/i18n/es-decorations.json",revision:"9cca6d3764829f37770262ad56c84466"},{url:"church/i18n/es.json",revision:"df41ca4efabdc5ad49cbebc9277035da"},{url:"church/img/church-history/church-history.avif",revision:"0e9fead3f8b985ebf9762beaa1911a05"},{url:"church/img/family-triangle/family-triangle.svg",revision:"2e189703767ea06efef0999f10ec1eeb"},{url:"church/img/head-body-diagram/head-body-diagram.svg",revision:"575b7a41400b6e4875f7b0566bd665bd"},{url:"church/img/masthead-church.avif",revision:"5f561b19ce41cf8edbea8e94a49cf9d1"},{url:"church/index.html",revision:"99209c5a2053966dd2cd0591c52efa1b"},{url:"church/logic.js",revision:"2d821031b7e21691336e846dbffabc6d"},{url:"church/style.css",revision:"d6ddc8ddb43f2bc47eee4f5b7f78b59c"},{url:"cross/i18n/es-decorations.json",revision:"2f71a106a44901e0e32eb3ce6a6fef43"},{url:"cross/i18n/es.json",revision:"25f2e252698a93e69c8ad2ce18109815"},{url:"cross/img/masthead-cross.avif",revision:"a7ce22ba73a14bd62f3b247de285b395"},{url:"cross/index.html",revision:"31c3d508deeefa97295bde3aac0a3003"},{url:"cross/logic.js",revision:"2d821031b7e21691336e846dbffabc6d"},{url:"cross/style.css",revision:"f99002dd71b04b99460e070ff663e808"},{url:"discipleship/i18n/es-decorations.json",revision:"0a0080dcfe323fd66c93c8f656be167f"},{url:"discipleship/i18n/es.json",revision:"f021cd9a158fa3648084add92396c5c9"},{url:"discipleship/img/masthead-discipleship.avif",revision:"00cea4cfd37c9279c7b289c5d2e72411"},{url:"discipleship/index.html",revision:"572a3872190e423d9c8f02be0e238802"},{url:"discipleship/logic.js",revision:"7e464ab307cfe2dc8dda34db198040ba"},{url:"discipleship/style.css",revision:"121700d599e606558f3543e3c2b526a9"},{url:"i18n-global/es.json",revision:"9ff42a50e3ab27d728d0cfdf0f452f3d"},{url:"index.html",revision:"c0cdb5ced2195c8981a14b7ad6251347"},{url:"kingdom/i18n/es-decorations.json",revision:"ab9ff628ede0f426c53273d1eb6f9aec"},{url:"kingdom/i18n/es.json",revision:"796b1eda3bd2c9536a3fdbf7d9777052"},{url:"kingdom/img/kingdom-church-comparison/kingdom-church-comparison.avif",revision:"63abed704227c991aaae72804bb97739"},{url:"kingdom/img/masthead-kingdom.avif",revision:"349c27764cb33a4f3abe1f57fb55ec91"},{url:"kingdom/img/mountain-bg-transparent.webp",revision:"1f0bd85ae3f72483caeb47ac190c7aa5"},{url:"kingdom/img/statue/statue.avif",revision:"e849b55b8569dd9a553e8ce707d73ae8"},{url:"kingdom/img/timeline/timeline.svg",revision:"28b7bf715713c6893d935b29fd6bb823"},{url:"kingdom/index.html",revision:"59cd307bdb6902726958a25216f4c66b"},{url:"kingdom/logic.js",revision:"652baa6f9b01711869fdc20ebaa99d46"},{url:"kingdom/style.css",revision:"266307b35d07e13c4946fdc032e0fc8a"},{url:"light-darkness/i18n/es-decorations.json",revision:"1d1966115dad552309bade2ee37550b3"},{url:"light-darkness/i18n/es.json",revision:"a2ec5a5073ec979f52a0162868a7e537"},{url:"light-darkness/img/buried-in-baptism/buried-in-baptism.avif",revision:"985c0c914c2ce6c15b0c9098e69f9569"},{url:"light-darkness/img/masthead-lightdarkness.avif",revision:"89a2a6596f542b59adf00991ec1ae9f1"},{url:"light-darkness/img/timeline-dots.svg",revision:"ffb69453df9faadeadbf785f18a23dc6"},{url:"light-darkness/index.html",revision:"c7e14eed2ed87ca39d9f4d47aa292d9d"},{url:"light-darkness/logic.js",revision:"2d821031b7e21691336e846dbffabc6d"},{url:"light-darkness/style.css",revision:"5e78e03fdcc2b9864812ee533fea725c"},{url:"manifest.json",revision:"32fbd9275e0cf5d55fb41276d02fa91d"},{url:"medical-account/i18n/es-decorations.json",revision:"5e3d913dc4f6599ce73e29bc70d7f411"},{url:"medical-account/i18n/es.json",revision:"913e9420338e0fc9f27a27b2da4e88d4"},{url:"medical-account/index.html",revision:"53778d29dce6751823ccbe05fe8fd9ee"},{url:"medical-account/logic.js",revision:"5f757b9bf38b40dcf48e45ff6c6f1cb9"},{url:"medical-account/style.css",revision:"679dc52a8cf14def7e9a575c7e4e323a"},{url:"package-lock.json",revision:"4677bfb887f98b7e310bfce52febbea6"},{url:"package.json",revision:"f330d2e739f05bb94da2e81de920f420"},{url:"seeking-god/i18n/es-decorations.json",revision:"80421439337d1de5e4d4217560977e01"},{url:"seeking-god/i18n/es.json",revision:"cfe99b0b1691cfe545a96024ef803a7f"},{url:"seeking-god/img/masthead-seeking-god.avif",revision:"6e53d75213f3f4ddbd8ac169083a2200"},{url:"seeking-god/index.html",revision:"19273f87401b169463cadd89324eed32"},{url:"seeking-god/logic.js",revision:"2d821031b7e21691336e846dbffabc6d"},{url:"seeking-god/style.css",revision:"582fd139a283f348a47b36b5e0de4e37"},{url:"sin-definitions/i18n/es-decorations.json",revision:"09b2f513d8d5c2a988644d2856ddfaa4"},{url:"sin-definitions/i18n/es.json",revision:"c12adbbbe7014850d3af950ac71458cf"},{url:"sin-definitions/index.html",revision:"174144d00f5e24f2b66b86654ac33b0d"},{url:"sin-definitions/logic.js",revision:"2d821031b7e21691336e846dbffabc6d"},{url:"sin-definitions/style.css",revision:"2be35f4d5a197ba4d1887db9cf0d39c0"},{url:"sin-repentance/i18n/es-decorations.json",revision:"bb40cbe2059b003439f75889308c6616"},{url:"sin-repentance/i18n/es.json",revision:"c5b905ed5a2ee418cce580f14eb0a270"},{url:"sin-repentance/img/darkness-light/darkness-light.svg",revision:"61e96d29e3330a40526124bec6611c3c"},{url:"sin-repentance/img/masthead-sin-repentance.avif",revision:"d437f01be95ec7bd47213eb0a7be7136"},{url:"sin-repentance/img/sin-piles/sin-piles.svg",revision:"f626fdc72b03a9132d6b47f726d31f4a"},{url:"sin-repentance/img/wages-gift/wages-gift.svg",revision:"ae50e529844e75855585af31eaef2ee3"},{url:"sin-repentance/index.html",revision:"bca57a9ba41bf8bca3afa51588b42f8b"},{url:"sin-repentance/logic.js",revision:"2d821031b7e21691336e846dbffabc6d"},{url:"sin-repentance/style.css",revision:"19442861cc1c82393d62a15110947d70"},{url:"toc/i18n/es-decorations.json",revision:"80421439337d1de5e4d4217560977e01"},{url:"toc/i18n/es.json",revision:"d9ddb8e59f8ceb4b61cf30447587f323"},{url:"toc/img/background.jpg",revision:"e4388082074a056208cb28aae87bc71a"},{url:"toc/index.html",revision:"f89221230cdb8ab47a2bd403e96d77da"},{url:"toc/logic.js",revision:"2d821031b7e21691336e846dbffabc6d"},{url:"toc/style.css",revision:"0b43aabcbd11029939ebc719e2f1153d"},{url:"word/i18n/es-decorations.json",revision:"19a04aa2794422d197edf6f084400887"},{url:"word/i18n/es.json",revision:"b6434b466b8944c1954eb7f186ee08c0"},{url:"word/img/masthead-word.avif",revision:"7600c7dd0aff5d474c7e78eedd4c4d1a"},{url:"word/index.html",revision:"3166c03532e008ac080d2f41d7bec7b7"},{url:"word/logic.js",revision:"2d821031b7e21691336e846dbffabc6d"},{url:"word/style.css",revision:"d909cad1558b004b398ec45030a81897"}],{ignoreURLParametersMatching:[/^utm_/,/^fbclid$/]})});
 //# sourceMappingURL=sw.js.map
